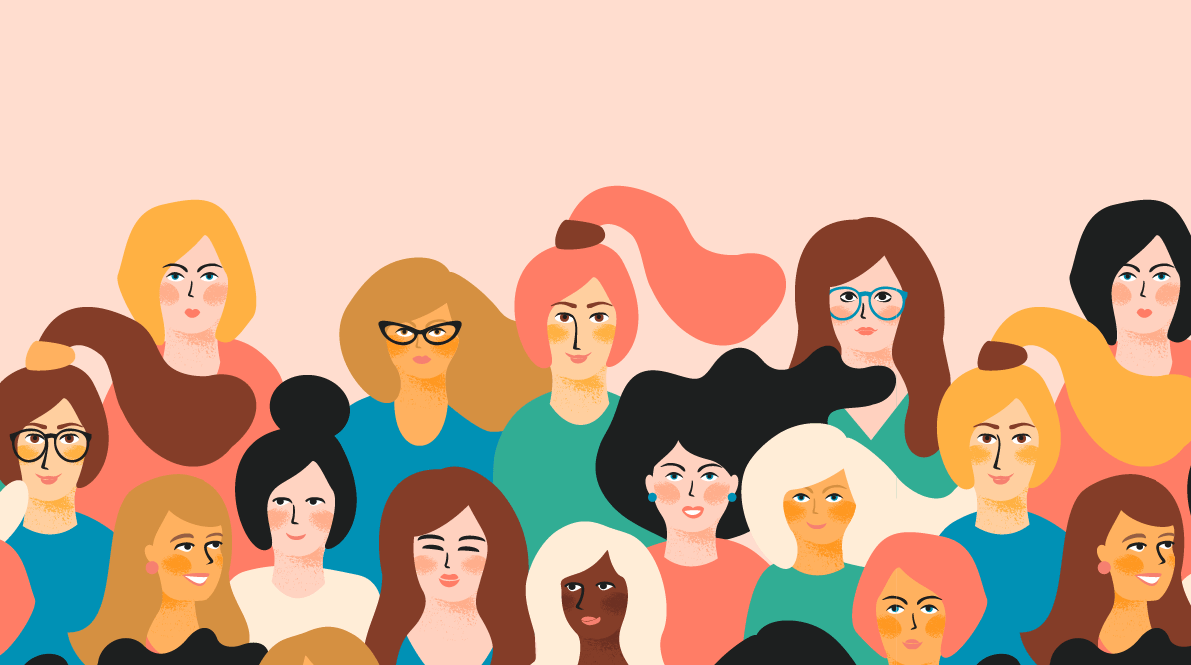
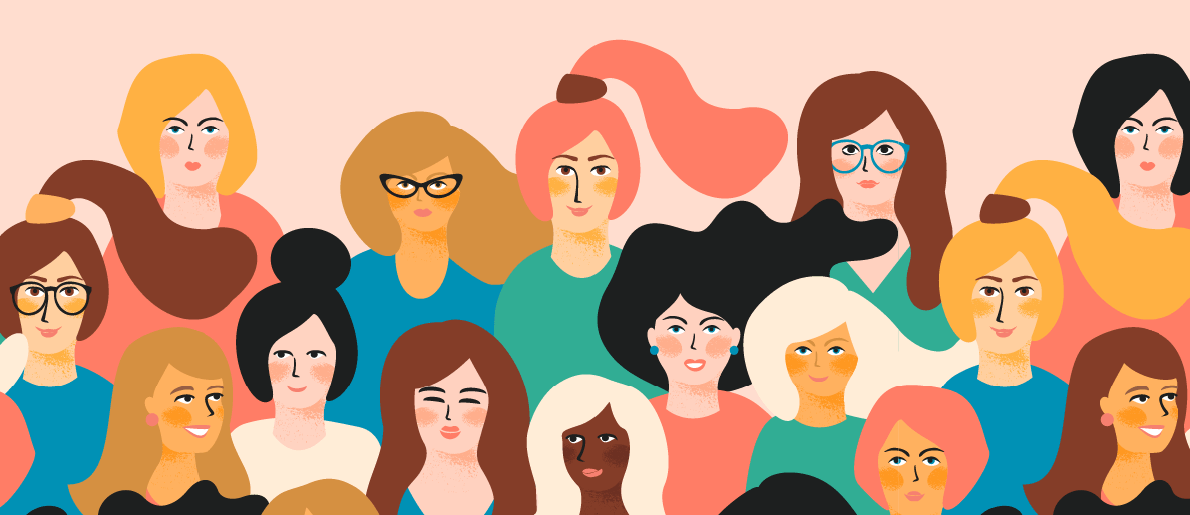
Implementando estilização no site

diff --git a/index.html b/index.html
@@ -5,8 +5,9 @@
     <meta http-equiv="X-UA-Compatible" content="IE=edge">
     <meta name="viewport" content="width=device-width, initial-scale=1.0">
     <title>Divulga Vaga Deva</title>
+    <link rel="stylesheet" href="assets/css/style.css">
 </head>
-<ul>
+<ul id="menu">
     <li>
         <a href = "index.html">HOME</a>
     </li>
@@ -14,30 +15,68 @@
         <a href = "contato.html">CONTATO</a>
     </li>
 </ul>
-<body>
-    <h1>Divulga Vaga Deva</h1>
-    <h2>
-        <p>
-            Divulgação de vagas exclusivas para mulheres, artigos, eventos e dicas.
-        </p>
+<header>
+    <div class="container">
         <img src="assets/img/imagem1.png" alt="Imagem de">
-    </h2>
-        <p>
-            Lorem, ipsum dolor sit amet consectetur adipisicing elit. Pariatur, aperiam quaerat eius laboriosam inventore nobis, minus repudiandae animi, vel minima ratione tenetur laborum. Ipsa sunt eius blanditiis commodi, in nihil.
-            Lorem ipsum dolor sit amet consectetur adipisicing elit. Eius architecto ratione perferendis velit debitis eum laudantium alias quisquam unde blanditiis quo maxime consequuntur nostrum, omnis porro magni possimus nobis pariatur?
-        </p>
-        <p>Lorem ipsum dolor sit amet, consectetur adipisicing elit. Repudiandae maiores enim dolor, quas tempora labore reiciendis aliquid aspernatur velit culpa optio tenetur at sed nisi voluptatibus sunt vero minima laboriosam?
-            Lorem ipsum dolor sit amet consectetur adipisicing elit. Perferendis placeat nisi quas, veniam aperiam, adipisci nesciunt vel voluptatem tenetur nam obcaecati consequuntur ipsum reprehenderit est. Saepe error voluptate veniam odit?
-        </p>
-    <h2>Vagas</h2>
-        <p>Título: Lorem ipsum dolor sit amet consectetur adipisicing elit.</p>
-        <p>Requisitos: Lorem ipsum, dolor sit amet consectetur adipisicing elit. Totam, dolores nam ad dignissimos et itaque cumque a cupiditate aperiam provident eum enim est tempora deleniti dolorem. Quae repellendus doloribus minus.</p>
-        <p>Local: remoto</p>
-        <p>Remuneração: R$ xxxx,xx</p>
-    <h2>Eventos</h2>
-        <p> Data xx/xx/xxxx - hh:hh </p>
+    </div>
+</header>
+<body>
+    <h1 class="center">Divulga Vaga Deva</h1>
+    <h2 class="center"> Divulgação de vagas exclusivas para mulheres, artigos, eventos e dicas.</h2>
+
+    <div class="container">
+        <div class="p-30">
+            <p class="justify">
+                Lorem, ipsum dolor sit amet consectetur adipisicing elit. Pariatur, aperiam quaerat eius laboriosam inventore nobis, minus repudiandae animi, vel minima ratione tenetur laborum. Ipsa sunt eius blanditiis commodi, in nihil.
+                Lorem ipsum dolor sit amet consectetur adipisicing elit. Eius architecto ratione perferendis velit debitis eum laudantium alias quisquam unde blanditiis quo maxime consequuntur nostrum, omnis porro magni possimus nobis pariatur?
+            </p>
+            <p class="justify">
+                Lorem ipsum dolor sit amet, consectetur adipisicing elit. Repudiandae maiores enim dolor, quas tempora labore reiciendis aliquid aspernatur velit culpa optio tenetur at sed nisi voluptatibus sunt vero minima laboriosam?
+                Lorem ipsum dolor sit amet consectetur adipisicing elit. Perferendis placeat nisi quas, veniam aperiam, adipisci nesciunt vel voluptatem tenetur nam obcaecati consequuntur ipsum reprehenderit est. Saepe error voluptate veniam odit?
+            </p>
+        </div>
+    </div>
+
+    <div class="container">
+        <div class="p-30">
+             <h2 class="center">Vagas</h2>
+
+            <h3 class="center">Título: Lorem ipsum dolor sit amet consectetur adipisicing elit.</h3>
+            <p class="justify">Requisitos: Lorem ipsum, dolor sit amet consectetur adipisicing elit. Totam, dolores nam ad dignissimos et itaque cumque a cupiditate aperiam provident eum enim est tempora deleniti dolorem. Quae repellendus doloribus minus.</p>
+            <p class="center">Local: remoto</p>
+            <p class="center">Remuneração: R$ xxxx,xx</p>
+        </div>
+
+        <div class="p-30">  
+        <h2 class="center">Eventos</h2>
+
+        <h3 class="center"> Data xx/xx/xxxx - hh:hh </h3>
         <p>Lorem ipsum dolor sit amet consectetur adipisicing elit. Vitae laboriosam quae autem temporibus maiores voluptatibus facilis perferendis blanditiis commodi. Molestias similique hic asperiores ratione, tenetur aliquid eligendi odio nemo. Ad.</p>
-    <h2>Vídeos </h2>
-    <iframe width="560" height="315" src="https://www.youtube.com/embed/B6gJARLZzhc" title="YouTube video player" frameborder="0" allow="accelerometer; autoplay; clipboard-write; encrypted-media; gyroscope; picture-in-picture" allowfullscreen></iframe>
+         </div>
+    </div>
+
+    <h2 class="center">Vídeos </h2>
+    <div class="center">
+        <iframe width="560" height="315" src="https://www.youtube.com/embed/B6gJARLZzhc" title="YouTube video player" frameborder="0" allow="accelerometer; autoplay; clipboard-write; encrypted-media; gyroscope; picture-in-picture" allowfullscreen></iframe>
+    </div>
+
+    <hr>
+    <footer> <!-- Rodapé -->
+        <div class="container">
+            <a href="https://github.com/anoyori" target="_blank"> <!--target abre uma nova aba-->
+                <img class="size-icon p-30" src="assets/img/github.png" alt="Logo Github">
+            </a>
+            <a href="https://www.linkedin.com/in/amanda-noyori/" target="_blank">
+                <img class="size-icon p-30" src="assets/img/linkedin.png" alt="Logo Linkedin">
+            </a>
+            <a href="https://www.instagram.com/anoyori/" target="_blank">
+                <img class="size-icon p-30" src="assets/img/instagram.png" alt="Logo Instagram">
+            </a>
+        </div>
+
+        <p class="center">
+            Todos os direitos reservados: Amanda Noyori &copy <!--&copy símbolo para copyright-->
+        </p>
+    </footer>
 </body>
 </html>

diff --git a/contato.html b/contato.html
@@ -5,32 +5,59 @@
     <meta http-equiv="X-UA-Compatible" content="IE=edge">
     <meta name="viewport" content="width=device-width, initial-scale=1.0">
     <title>Contato</title>
+    <link rel="stylesheet" href="assets/css/style.css">
 </head>
-<li>
-    <a href = "index.html">HOME</a>
-</li>
-<li>
-    <a href = "contato.html">CONTATO</a>
-</li>
+<ul id="menu">
+    <li>
+        <a href = "index.html">HOME</a>
+    </li>
+    <li>
+        <a href = "contato.html">CONTATO</a>
+    </li>
 </ul>
 <body>
-    <h1>Entre em contato conosco</h1>
-    <form>
-        <label for="nome">Nome:</label><br>
-        <br>
-        <input type="nome" id="nome">
-        <br>
-        <br>
-        <label for="email">E-mail:</label><br>
-        <br>
-        <input type="email" id="email">
-        <br>
-        <br>
-        <label for="assunto">Assunto:</label><br>
-        <br>
-        <textarea name="assunto" id="assunto" cols="60" rows="10"></textarea>
-    </form>
-    <h2>Endereço:</h2>
-    <iframe src="https://www.google.com/maps/embed?pb=!1m18!1m12!1m3!1d3656.7397473925485!2d-46.68878978538365!3d-23.577788768083476!2m3!1f0!2f0!3f0!3m2!1i1024!2i768!4f13.1!3m3!1m2!1s0x94ce576db16f56a3%3A0xdf2dded615839e5f!2sAv.%20Brg.%20Faria%20Lima%2C%201811%20-%20Jardim%20Paulista%2C%20S%C3%A3o%20Paulo%20-%20SP%2C%2001452-001!5e0!3m2!1spt-BR!2sbr!4v1621356373237!5m2!1spt-BR!2sbr" width="600" height="450" style="border:0;" allowfullscreen="" loading="lazy"></iframe>
+    <h1 class="center">Entre em contato conosco</h1>
+        <div class="container mb-50">
+            <div>
+            <form>
+                <label for="nome">Nome:</label><br>
+                <br>
+                <input type="nome" id="nome">
+                <br>
+                <br>
+                <label for="email">E-mail:</label><br>
+                <br>
+                <input type="email" id="email">
+                <br>
+                <br>
+                <label for="assunto">Assunto:</label><br>
+                <br>
+                <textarea name="assunto" id="assunto" cols="60" rows="10"></textarea>
+            </form>
+            </div>
+        
+             <div class="ml-50">  
+                <h2>Endereço:</h2>
+                <iframe src="https://www.google.com/maps/embed?pb=!1m18!1m12!1m3!1d3656.7397473925485!2d-46.68878978538365!3d-23.577788768083476!2m3!1f0!2f0!3f0!3m2!1i1024!2i768!4f13.1!3m3!1m2!1s0x94ce576db16f56a3%3A0xdf2dded615839e5f!2sAv.%20Brg.%20Faria%20Lima%2C%201811%20-%20Jardim%20Paulista%2C%20S%C3%A3o%20Paulo%20-%20SP%2C%2001452-001!5e0!3m2!1spt-BR!2sbr!4v1621356373237!5m2!1spt-BR!2sbr" width="450" height="300" style="border:0;" allowfullscreen="" loading="lazy"></iframe>
+              </div>
+        </div>
+    <hr>
+    <footer> <!-- Rodapé -->
+        <div class="container">
+            <a href="https://github.com/anoyori" target="_blank"> <!--target abre uma nova aba-->
+                <img class="size-icon p-30" src="assets/img/github.png" alt="Logo Github">
+            </a>
+            <a href="https://www.linkedin.com/in/amanda-noyori/" target="_blank">
+                <img class="size-icon p-30" src="assets/img/linkedin.png" alt="Logo Linkedin">
+            </a>
+            <a href="https://www.instagram.com/anoyori/" target="_blank">
+                <img class="size-icon p-30" src="assets/img/instagram.png" alt="Logo Instagram">
+            </a>
+        </div>
+
+        <p class="center">
+            Todos os direitos reservados: Amanda Noyori &copy <!--&copy símbolo para copyright-->
+        </p>
+    </footer>
 </body>
 </html>

diff --git a/assets/css/style.css b/assets/css/style.css
@@ -1,0 +1,58 @@
+/*Estilos da página index.html */
+
+.center{
+    text-align: center;
+}
+
+.justify{
+    text-align: justify;
+}
+
+.container{
+    display: flex;
+    flex-flow: row;
+    justify-content: center;
+    align-items: center;
+}
+
+#menu li{
+    display: inline;
+    padding: 15px;
+}
+
+#menu li a{
+    text-decoration: none;
+    color: black;
+    font-size: 20px;
+}
+
+#menu li a:hover{
+    color:#535E53;
+    background-color: #F6DCBF;
+}
+
+.p-30{
+    padding: 30px;
+}
+
+.wh-300{
+    width: 300px;
+    height: 300px;
+}
+
+.size-icon{
+    width: 50px;
+    height: 50px;
+}
+
+.mb-50{
+    margin-bottom: 50px;
+}
+
+
+/* Estilos da página contato.html */
+
+.ml-50{
+    margin-left: 50px;
+}
+
